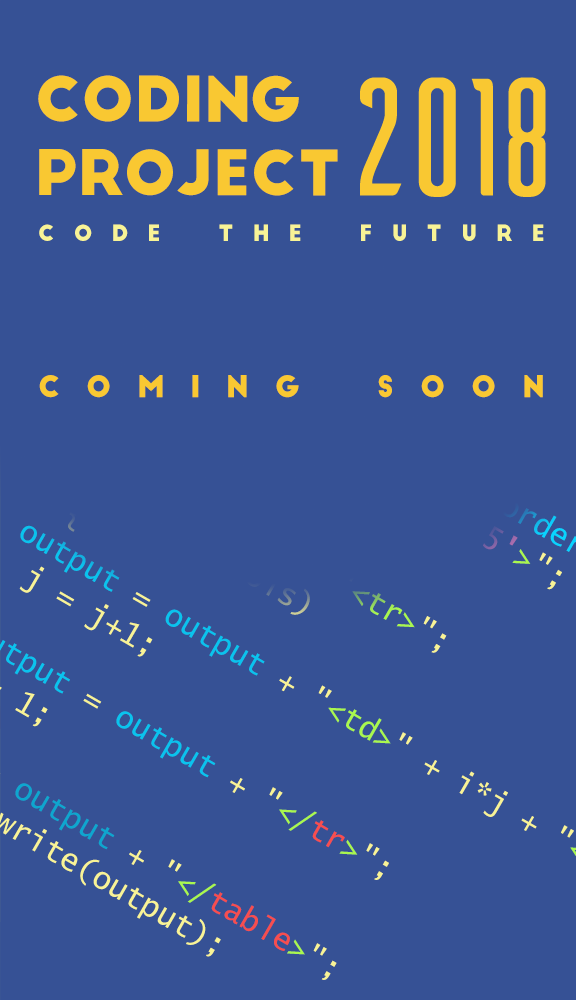
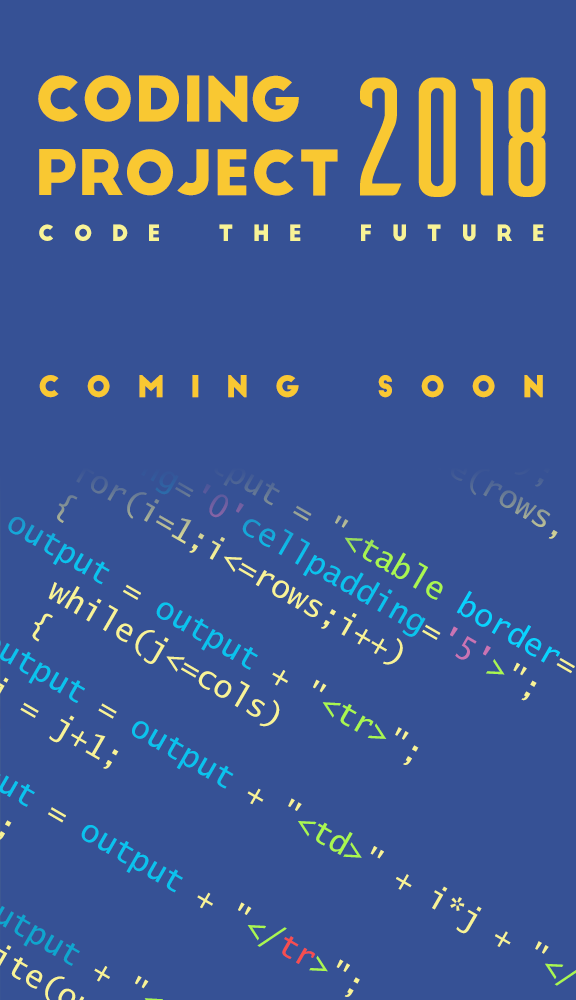
- 12:09 PM Tuesday, August 21, 2018 (GMT+7):   - Thêm mới ảnh vào PreLoad   -  ->

diff --git a/src/components/homepage/background/BackgroundMobile.jsx b/src/components/homepage/background/BackgroundMobile.jsx
@@ -2,7 +2,8 @@ import React, { Component } from 'react';
 import { connect } from 'react-redux';
 
 // import backgroundMobile_01 from '../../../img/background-01-mobile.png';
-import backgroundMobile_02 from '../../../img/background-03-mobile.png';
+// import backgroundMobile_02 from '../../../img/background-02-mobile.png';
+import backgroundMobile_03 from '../../../img/background-03-mobile.png';
 // import logo from '../../../img/logo.png';
 // import ScrollHint from './ScrollHint';
 
@@ -12,9 +13,11 @@ class BackGroundMobile extends Component {
     this.state = {
       isBackgroundScroll: false
     };
-    this.handleBackgroundScroll = this.handleBackgroundScroll.bind(this);
+    // phải bind nó
+    // this.handleBackgroundScroll = this.handleBackgroundScroll.bind(this);
   }
   componentDidMount() {
+    // Auto ra giữa màn hình
     // if (!this.props.isScroll) {
     //   const div = document.getElementById('scrollCenter');
     //   if (div) {
@@ -24,27 +27,29 @@ class BackGroundMobile extends Component {
     //     }, 0);
     //   }
     // }
-    this.interval = setInterval(this.handleBackgroundScroll, 200);
+    // Set interval chạy liên tục để đoán
+    // this.interval = setInterval(this.handleBackgroundScroll, 200);
     console.log('BackgroundMobile - setInterval');
   }
 
   componentWillUnmount() {
-    clearInterval(this.interval);
+    // clear interval đi
+    // clearInterval(this.interval);
     console.log('BackgroundMobile - clearInterval');
   }
 
-  handleBackgroundScroll() {
-    if (!this.props.isScroll) {
-      const div = document.getElementById('scrollCenter');
-      if (div) {
-        // why this shit need to be wrapped by setTimeout, please?
-        setTimeout(() => {
-          console.log('BackgroundMobile scrollLeft', div.scrollLeft);
-          if (div.scrollLeft > 200) this.setState({ isBackgroundScroll: true });
-        }, 0);
-      }
-    }
-  }
+  // handleBackgroundScroll() {
+  //   if (!this.props.isScroll) {
+  //     const div = document.getElementById('scrollCenter');
+  //     if (div) {
+  //       // why this shit need to be wrapped by setTimeout, please?
+  //       setTimeout(() => {
+  //         console.log('BackgroundMobile scrollLeft', div.scrollLeft);
+  //         if (div.scrollLeft > 200) this.setState({ isBackgroundScroll: true });
+  //       }, 0);        
+  //     }
+  //   }
+  // }
 
   render() {
     // const getLogo = () =>
@@ -72,7 +77,7 @@ class BackGroundMobile extends Component {
 
     const getBg = () => (
       <div className="bg-mobile-event">
-        <img className="bg-mobile-event-img" src={backgroundMobile_02} alt="backgroundMobile_02" />
+        <img className="bg-mobile-event-img" src={backgroundMobile_03} alt="backgroundMobile_03" />
       </div>
     );
 

diff --git a/src/components/homepage/background/BackGroundDesktop.jsx b/src/components/homepage/background/BackGroundDesktop.jsx
@@ -2,7 +2,8 @@ import React, { Component } from 'react';
 import { connect } from 'react-redux';
 
 // import backgroundDesktop_01 from '../../../img/background-01.png';
-import backgroundDesktop_02 from '../../../img/background-03.png';
+// import backgroundDesktop_02 from '../../../img/background-02.png';
+import backgroundDesktop_03 from '../../../img/background-03.png';
 
 class BackGroundDesktop extends Component {
   render() {
@@ -13,7 +14,7 @@ class BackGroundDesktop extends Component {
     //     <img src={backgroundDesktop_02} alt="backgroundDesktop_02" style={{ width: '100%', marginTop: '0px' }} />
     //   );
 
-    const getBg = () => <img src={backgroundDesktop_02} alt="backgroundDesktop_02" style={{ width: '100%', marginTop: '0px' }} />;
+    const getBg = () => <img src={backgroundDesktop_03} alt="backgroundDesktop_03" style={{ width: '100%', marginTop: '0px' }} />;
     return <div>{getBg()}</div>;
   }
 }

diff --git a/src/components/App.jsx b/src/components/App.jsx
@@ -19,9 +19,8 @@ class App extends Component {
 
   componentDidMount() {
     // REDUX : set width of device every 200ms
-    this.interval = setInterval(() => {
-      this.props.setMobile(window.innerWidth);
-    }, 50);
+    // Math.max(document.documentElement.clientWidth, window.innerWidth || 0) == width
+    this.interval = setInterval(() => this.props.setMobile(Math.max(document.documentElement.clientWidth, window.innerWidth || 0)), 50);
     window.addEventListener('scroll', this.handleScroll);
   }
 
@@ -38,7 +37,7 @@ class App extends Component {
     if (window.scrollY === 0 && this.props.isScroll) {
       // this.props.setScroll(false);
       // console.log('App scroll', false);
-    } else if (window.scrollY > 100 && !this.props.isScroll) {
+    } else if (window.scrollY > 0 && !this.props.isScroll) {
       this.props.setScroll(true);
       console.log('App scroll', true);
     }

diff --git a/src/components/PreLoadImage.jsx b/src/components/PreLoadImage.jsx
@@ -5,6 +5,8 @@ import bg01m from '../img/background-01-mobile.png';
 import bg01 from '../img/background-01.png';
 import bg02m from '../img/background-02-mobile.png';
 import bg02 from '../img/background-02.png';
+import bg03m from '../img/background-03-mobile.png';
+import bg03 from '../img/background-03.png';
 import logo from '../img/logo.png';
 import logoCut from '../img/logo-cut.png';
 import ean01 from '../img/ean-01.png';
@@ -18,8 +20,8 @@ const successOne = 'color: #74b9ff';
 const successAll = 'color: green';
 const bigFont = 'font-weight: bolder; color: #fdcb6e';
 
-const mobileImages = [bg01m, bg02m];
-const desktopImages = [bg01, bg02];
+const mobileImages = [bg01m, bg02m, bg03m];
+const desktopImages = [bg01, bg02, bg03];
 const bothImages = [logo, logoCut, ean01, ean02, ean03, ean04, ean05, ean06];
 
 class PreLoadImage extends Component {

diff --git a/src/components/homepage/WhoWeAre.jsx b/src/components/homepage/WhoWeAre.jsx
@@ -1,5 +1,6 @@
 import React, { Component } from 'react';
 import { connect } from 'react-redux';
+import { Button } from 'antd';
 
 import './whoweare.css';
 
@@ -13,6 +14,11 @@ class WhoWeAre extends Component {
       <div>
         <div className="whoweare">WHO WE ARE</div>
         <div className="whoweare-detail">{getDetail()}</div>
+        <div className="whoweare" style={{ marginTop: '-4%' }}>
+          <Button type="primary" href="/" size="large" style={{ background: '#3A5290', borderRadius: '20px' }}>
+            View more
+          </Button>
+        </div>
       </div>
     );
   }

diff --git a/src/actions/index.js b/src/actions/index.js
@@ -1,7 +1,8 @@
 import { SET_MOBILE, SET_SCROLL } from '../constants';
 
 export const setMobile = width => {
-  const isMobile = width < 1024 ? true : false;
+  console.log('action parameter', width);
+  const isMobile = width <= 768 ? true : false;
   const action = {
     type: SET_MOBILE,
     isMobile

diff --git a/README.md b/README.md
@@ -71,7 +71,13 @@
   - Animation cho hover card ở [EventDesktop.jsx](./src/components/homepage/event-and-new/EventDesktop.jsx).
 
 - 1:24 AM Tuesday, August 21, 2018 (GMT+7):
+
   - Làm xong [EventMobile.jsx](./src/components/homepage/event-and-new/EventMobile.jsx).
 
 - 2:53 AM Tuesday, August 21, 2018 (GMT+7):
+
   - Thay background cho mobile và desktop
+
+- 12:09 PM Tuesday, August 21, 2018 (GMT+7):
+  - Thêm mới ảnh vào PreLoad
+  - `window.scrollY > 100` -> `window.scrollY > 0`
